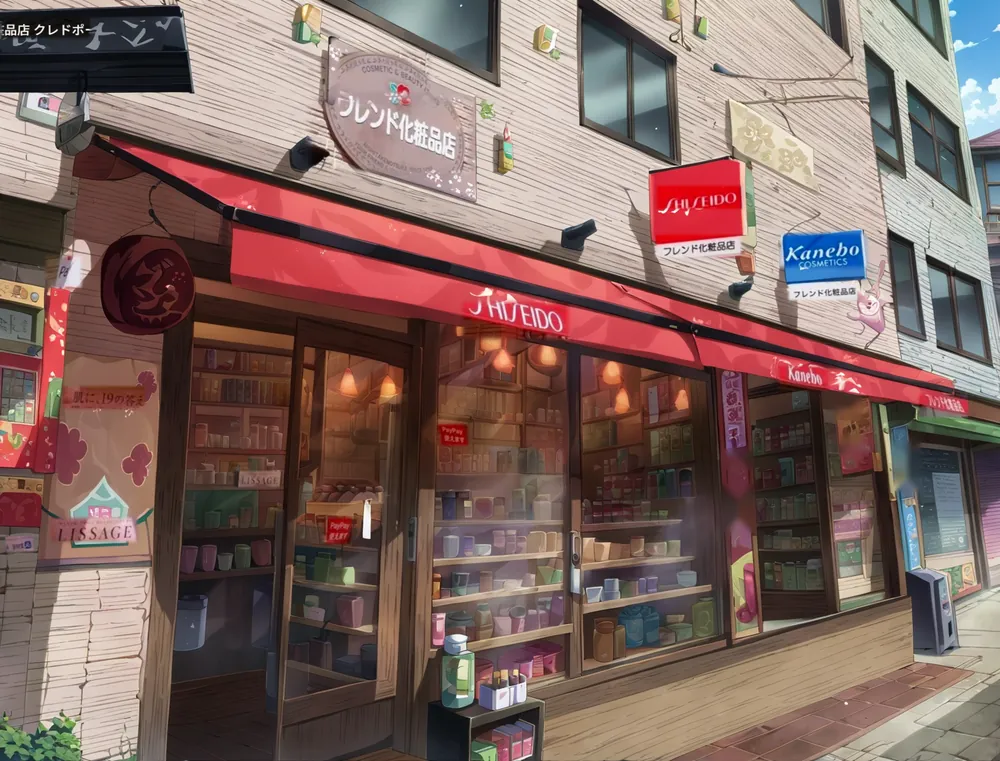
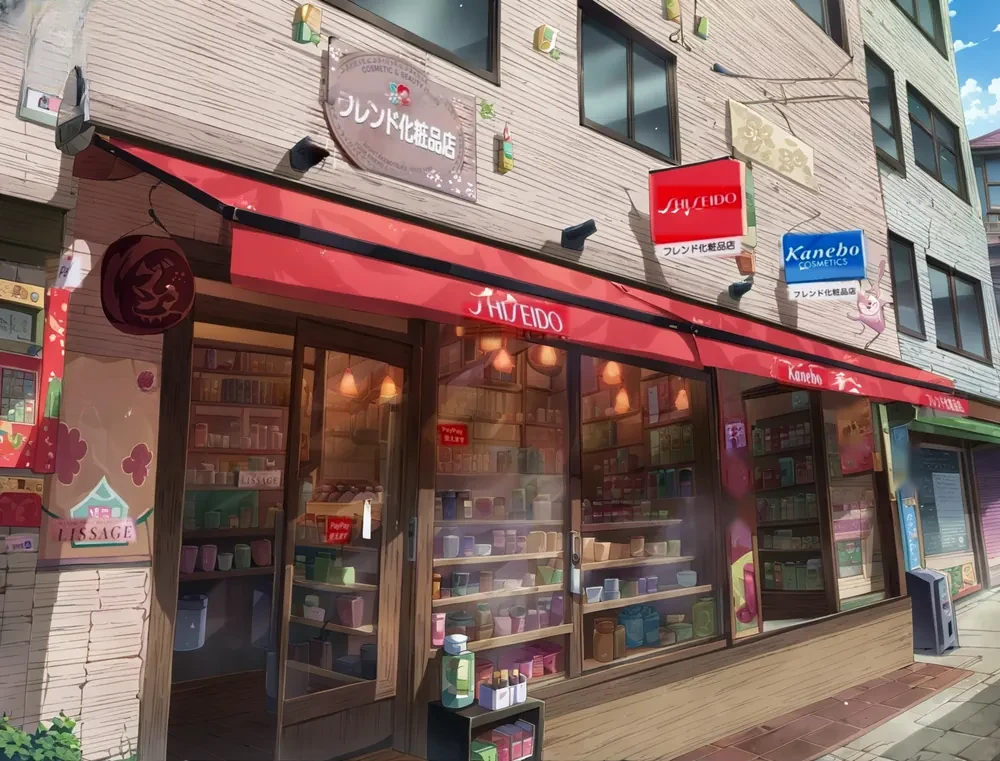
v4.0: fix garbled sign text, restore IRIS sign, add motion layer

Changed region(s): [[0.0, 0.0, 0.217, 0.1511], [0.062, 0.4836, 0.155, 0.544], [0.713, 0.4836, 0.744, 0.5742]]

diff --git a/assets/js/story.js b/assets/js/story.js
@@ -1,4 +1,4 @@
-/* たけにし、よりみち日和。— シーン演出（GSAP ScrollTrigger） v3 */
+/* たけにし、よりみち日和。— シーン演出（GSAP ScrollTrigger） v4（モーション層追加） */
 (function () {
   'use strict';
   const $ = (s, r = document) => r.querySelector(s);
@@ -12,6 +12,7 @@
     return;
   }
   gsap.registerPlugin(ScrollTrigger);
+  document.documentElement.classList.add('js-motion');
 
   /* ---------- ローディング（画像の読み込み or 最大2.4秒） ---------- */
   const loader = $('#loader');
@@ -30,14 +31,29 @@
 
   /* ---------- ヘルパー ---------- */
   const poseOf = {};
-  const pose = (sel, name) => {
+  /* ポーズ切替：画像差替＋ぷにっと弾む（squash & stretch）。歩きコマは quiet で弾ませない */
+  const pop = c => { if (c.animate) c.animate([{ scale: '1 1' }, { scale: '1.07 .92', offset: .28 }, { scale: '.97 1.05', offset: .62 }, { scale: '1 1' }], { duration: 420, easing: 'cubic-bezier(.3,.7,.4,1)' }); };
+  const pose = (sel, name, quiet) => {
     const c = $(sel); if (!c || poseOf[sel] === name) return;
     if (!$(sel + ' img[data-pose="' + name + '"]')) return;
-    poseOf[sel] = name;
+    const had = !!poseOf[sel]; poseOf[sel] = name;
     $$('img', c).forEach(i => i.classList.toggle('is-on', i.dataset.pose === name));
+    if (had && !quiet) pop(c);
   };
   const hasPose = (sel, name) => !!$(sel + ' img[data-pose="' + name + '"]');
-  const bub = (sel, on) => { const b = $(sel); if (b) b.classList.toggle('is-on', on); };
+  /* 吹き出し：出るときに1文字ずつタイプ（幅は先に確保してガタつかせない） */
+  const typeIn = (el, text, speed = 42) => {
+    clearInterval(el._t); el.style.minWidth = ''; el.textContent = text;
+    const w = el.offsetWidth; el.style.minWidth = w + 'px'; el.textContent = '';
+    let i = 0; el._t = setInterval(() => { el.textContent = text.slice(0, ++i); if (i >= text.length) clearInterval(el._t); }, speed);
+  };
+  const bub = (sel, on) => {
+    const b = $(sel); if (!b) return;
+    const was = b.classList.contains('is-on'); if (was === on) return;
+    if (!b.dataset.full) b.dataset.full = b.textContent;
+    b.classList.toggle('is-on', on);
+    if (on) typeIn(b, b.dataset.full); else { clearInterval(b._t); b.textContent = b.dataset.full; }
+  };
   /* 歩き：walk/walk2 の2コマを交互に切替＋上下ボブ（CSS） */
   const walkers = new Map();
   const walking = (sel, on) => {
@@ -45,8 +61,8 @@
     c.classList.toggle('is-walking', on);
     if (on && !walkers.has(sel)) {
       let f = 0; const two = hasPose(sel, 'walk2');
-      pose(sel, 'walk');
-      walkers.set(sel, setInterval(() => { f ^= 1; pose(sel, two && f ? 'walk2' : 'walk'); }, 230));
+      pose(sel, 'walk', true);
+      walkers.set(sel, setInterval(() => { f ^= 1; pose(sel, two && f ? 'walk2' : 'walk', true); }, 230));
     } else if (!on && walkers.has(sel)) { clearInterval(walkers.get(sel)); walkers.delete(sel); }
   };
   /* 進行率テーブルでポーズ／吹き出しを決める（逆スクロールでも同じ状態になる） */
@@ -63,10 +79,14 @@
   /* 各シーン共通：背景視差＋紙もの出現 */
   $$('.scene').forEach(sc => {
     const bg = $('.scene__bg', sc);
-    if (bg) gsap.fromTo(bg, { yPercent: -4 }, { yPercent: 4, ease: 'none', scrollTrigger: { trigger: sc, start: 'top bottom', end: 'bottom top', scrub: true } });
+    /* 背景：視差＋ゆっくり寄り（Ken Burns） */
+    if (bg) gsap.fromTo(bg, { yPercent: -4, scale: 1.1 }, { yPercent: 4, scale: 1, ease: 'none', scrollTrigger: { trigger: sc, start: 'top bottom', end: 'bottom top', scrub: true } });
+    /* 紙もの：少し傾いて“ぽん”と着地 → 中身が1行ずつ上がる */
     $$('.paper, .board, .note, .mapwrap, .access', sc).forEach(el => {
       if (el.closest('.no-reveal')) return;
-      gsap.from(el, { y: 40, opacity: 0, duration: .9, ease: 'power3.out', scrollTrigger: { trigger: el, start: 'top 88%' } });
+      const st = { trigger: el, start: 'top 88%' };
+      gsap.from(el, { y: 56, rotate: -2.5, scale: .94, opacity: 0, duration: 1, ease: 'back.out(1.5)', scrollTrigger: st });
+      if (el.classList.contains('paper')) gsap.from(el.children, { y: 16, opacity: 0, duration: .6, ease: 'power3.out', stagger: .07, delay: .18, scrollTrigger: st });
     });
   });
 
@@ -77,6 +97,7 @@
       .from('.sc-1 .kicker-tag', { y: 10, opacity: 0, duration: .5 }, .1)
       .from('.sc-1 .sub, .sc-1 .hero__actions', { y: 14, opacity: 0, duration: .7, stagger: .1 }, .7)
       .from('.sc-1 .hero__fuda', { scale: .6, rotate: -12, opacity: 0, duration: .9, ease: 'back.out(1.6)' }, .9)
+      .to('.sc-1 .title em', { backgroundSize: '100% 100%', duration: .7, ease: 'power2.inOut' }, 1.05)
       .from('#c1-koharu', { xPercent: -220, duration: 1.6, ease: 'power2.out', onStart: () => walking('#c1-koharu', true), onComplete: () => { walking('#c1-koharu', false); pose('#c1-koharu', 'point'); bub('#b1', true); } }, .2)
       .from('#c1-sota', { xPercent: -260, duration: 1.8, ease: 'power2.out', onStart: () => walking('#c1-sota', true), onComplete: () => { walking('#c1-sota', false); pose('#c1-sota', 'jump'); } }, .35);
     const finish = () => { if (intro.progress() < 1) intro.progress(1); };
@@ -157,7 +178,8 @@
       tl.fromTo('#bag', { x: 0, opacity: 0 }, { opacity: 1, x: 24, ease: 'power1.out', duration: .3 }, .3)
         .to('#c6-sota', { y: -14, yoyo: true, repeat: 1, duration: .06 }, .62);
     }
-    tl.from('.sc-6 .paper', { y: 40, opacity: 0, ease: 'none', duration: .25 }, .3);
+    /* スマホは紙が長く、スクロール連動だと上部を見る位置で透明に戻る → 共通の出現演出（一度出たら消えない）に任せる */
+    if (!sp()) tl.from('.sc-6 .paper', { y: 40, opacity: 0, ease: 'none', duration: .25 }, .3);
   }
 
   /* ---- Scene7 帰り道 ---- */
@@ -195,6 +217,55 @@
       .from('.sc-10 .actions', { y: 16, opacity: 0, ease: 'none', duration: .3 }, .7);
   }
 
+  /* ---------- v4 モーション層（空気感・慣性・奥行き） ---------- */
+  /* 待機中の呼吸：キャラごとに位相をずらす */
+  $$('.ch').forEach((c, i) => c.style.setProperty('--bd', (-(i * .83) % 3.2).toFixed(2) + 's'));
+  /* スクロールの速さで、歩いているキャラが前のめり／主要店舗カードがしなる */
+  const root = document.documentElement, lean = { v: 0 };
+  const leanTo = gsap.quickTo(lean, 'v', { duration: .45, ease: 'power3.out', onUpdate: () => root.style.setProperty('--lean', lean.v.toFixed(2) + 'deg') });
+  let leanRest = 0;
+  ScrollTrigger.create({ start: 0, end: 'max', onUpdate: s => {
+    leanTo(gsap.utils.clamp(-8, 8, -s.getVelocity() / 240));
+    clearTimeout(leanRest); leanRest = setTimeout(() => leanTo(0), 140);
+  } });
+  /* 光の粒（昼）／ほたる火（夜）：背景と人物の間にふわふわ漂わせる */
+  const rnd = (a, b) => a + Math.random() * (b - a);
+  $$('.scene').forEach(sc => {
+    if (!$('.scene__bg', sc)) return;
+    const night = sc.classList.contains('sc-10');
+    const box = document.createElement('div'); box.className = 'fx-amb' + (night ? ' fx-amb--fire' : ''); box.setAttribute('aria-hidden', 'true');
+    const n = sp() ? 7 : 14;
+    for (let i = 0; i < n; i++) {
+      const d = document.createElement('i');
+      d.style.cssText = 'left:' + rnd(2, 98).toFixed(1) + '%;top:' + rnd(night ? 30 : 15, 92).toFixed(1) + '%;--s:' + rnd(night ? 5 : 4, night ? 11 : 12).toFixed(1) + 'px;--d:' + rnd(7, 13).toFixed(1) + 's;--dl:-' + rnd(0, 12).toFixed(1) + 's;--dx:' + rnd(-60, 60).toFixed(0) + 'px;--o:' + rnd(.45, .95).toFixed(2);
+      box.appendChild(d);
+    }
+    const ref = $('.scene__fx', sc) || $('.scene__chars', sc); if (ref) ref.parentNode.insertBefore(box, ref); else sc.appendChild(box);
+  });
+  /* オープニング：朝の光だまり＋マウスで奥行き（PCのみ） */
+  const s1 = $('.sc-1');
+  if (s1) {
+    const sun = document.createElement('div'); sun.className = 'fx-sun'; sun.setAttribute('aria-hidden', 'true'); sun.innerHTML = '<i></i>';
+    const ref1 = $('.scene__chars', s1); if (ref1) ref1.parentNode.insertBefore(sun, ref1);
+    if (window.matchMedia('(pointer:fine)').matches) {
+      const bgImg = $('.scene__bg img', s1), chs = $('.scene__chars', s1);
+      gsap.set(bgImg, { scale: 1.05 });
+      const bx = gsap.quickTo(bgImg, 'x', { duration: 1.2, ease: 'power3.out' }), by = gsap.quickTo(bgImg, 'y', { duration: 1.2, ease: 'power3.out' });
+      const cx = gsap.quickTo(chs, 'x', { duration: .9, ease: 'power3.out' });
+      s1.addEventListener('pointermove', e => { const nx = e.clientX / innerWidth - .5, ny = e.clientY / innerHeight - .5; bx(nx * -18); by(ny * -10); cx(nx * 22); });
+      s1.addEventListener('pointerleave', () => { bx(0); by(0); cx(0); });
+    }
+  }
+  /* 主要店舗カード：窓の中で絵が少し遅れて動く（のぞき窓パララックス） */
+  const shopsSc = $('.sc-shops'), cardsImg = $$('.sc-shops .sf img');
+  if (shopsSc && cardsImg.length) {
+    gsap.ticker.add(() => {
+      const R = shopsSc.getBoundingClientRect(); if (R.bottom < 0 || R.top > innerHeight) return;
+      const W = innerWidth;
+      cardsImg.forEach(im => { const r = im.getBoundingClientRect(); const rel = gsap.utils.clamp(-1, 1, (r.left + r.width / 2 - W / 2) / W); im.style.objectPosition = (50 + rel * 35).toFixed(1) + '% 60%'; });
+    });
+  }
+
   /* ---------- ナビゲーター（右下に常駐・シーンごとにひとこと） ---------- */
   const navi = $('#navi');
   if (navi) {
@@ -204,7 +275,7 @@
       clearTimeout(hideT);
       if (p) $$('img', navi).forEach(i => i.classList.toggle('is-on', i.dataset.pose === p));
       if (!t) { tip.classList.remove('is-on'); return; }
-      tip.textContent = t; tip.classList.add('is-on');
+      tip.classList.add('is-on'); typeIn(tip, t, 34);
       navi.classList.add('is-hop'); setTimeout(() => navi.classList.remove('is-hop'), 700);
       hideT = setTimeout(() => tip.classList.remove('is-on'), 5000);
     };

diff --git a/assets/css/story.css b/assets/css/story.css
@@ -256,3 +256,28 @@ body[data-mode] .hd{background:rgba(251,246,234,.86);backdrop-filter:blur(8px);-
   .sc-6 .ch{bottom:9vh}
   .sc-6 .prop{display:none}
 }
+
+/* ---------- v4 モーション層 ---------- */
+.ch{transform-origin:50% 100%}
+.ch:not(.is-walking){animation:breathe 3.2s ease-in-out var(--bd,0s) infinite}
+@keyframes breathe{0%,100%{scale:1 1}50%{scale:1.01 1.022}}
+@keyframes bob{from{translate:0 0;rotate:-1.4deg}to{translate:0 -7px;rotate:1.4deg}}
+.ch img{transform-origin:50% 100%}
+.ch.is-walking img{transform:translateX(-50%) skewX(var(--lean,0deg))}
+.ch.is-walking .ch__shadow{animation:shadowbob .55s ease-in-out infinite alternate}
+@keyframes shadowbob{from{scale:1;opacity:1}to{scale:.82;opacity:.65}}
+.sf img{transform:skewX(calc(var(--lean,0deg) * .5));transform-origin:50% 100%}
+.js-motion .sc-1 .title em{background-size:0% 100%;background-repeat:no-repeat}
+/* 光の粒／ほたる火 */
+.fx-amb{position:absolute;inset:0;z-index:2;pointer-events:none;overflow:hidden}
+.fx-amb i{position:absolute;width:var(--s);height:var(--s);border-radius:50%;background:radial-gradient(circle,rgba(255,255,255,.95),rgba(255,255,255,0) 70%);opacity:0;animation:mote var(--d) ease-in-out var(--dl) infinite;will-change:transform,opacity}
+@keyframes mote{0%{transform:translate(0,0) scale(.6);opacity:0}25%{opacity:var(--o)}75%{opacity:var(--o)}100%{transform:translate(var(--dx),-24vh) scale(1);opacity:0}}
+.fx-amb--fire i{background:radial-gradient(circle,rgba(255,236,150,1),rgba(255,196,80,0) 70%);animation-name:firefly;filter:drop-shadow(0 0 6px rgba(255,210,110,.9))}
+@keyframes firefly{0%{transform:translate(0,0);opacity:0}15%{opacity:var(--o)}30%{opacity:.2}45%{opacity:var(--o)}60%{transform:translate(calc(var(--dx) * .5),-8vh)}75%{opacity:.25}90%{opacity:var(--o)}100%{transform:translate(var(--dx),-14vh);opacity:0}}
+/* オープニングの光だまり */
+.fx-sun{position:absolute;inset:0;z-index:2;pointer-events:none;overflow:hidden;mix-blend-mode:screen}
+.fx-sun::before{content:"";position:absolute;right:-18vw;top:-30vw;width:80vw;height:80vw;border-radius:50%;background:radial-gradient(circle,rgba(255,240,200,.55),rgba(255,240,200,0) 62%);animation:sunpulse 7s ease-in-out infinite alternate}
+.fx-sun i{position:absolute;right:-30vw;top:-50vw;width:110vw;height:110vw;background:repeating-conic-gradient(from 200deg,rgba(255,246,220,.07) 0 5deg,rgba(255,246,220,0) 9deg 14deg);-webkit-mask:radial-gradient(circle,#000 20%,transparent 62%);mask:radial-gradient(circle,#000 10%,transparent 55%);filter:blur(6px);animation:sunspin 60s linear infinite}
+@keyframes sunpulse{from{opacity:.7;transform:scale(.96)}to{opacity:1;transform:scale(1.04)}}
+@keyframes sunspin{to{transform:rotate(360deg)}}
+@media(prefers-reduced-motion:reduce){.ch,.fx-amb i,.fx-sun::before,.fx-sun i,.ch__shadow{animation:none!important}}
